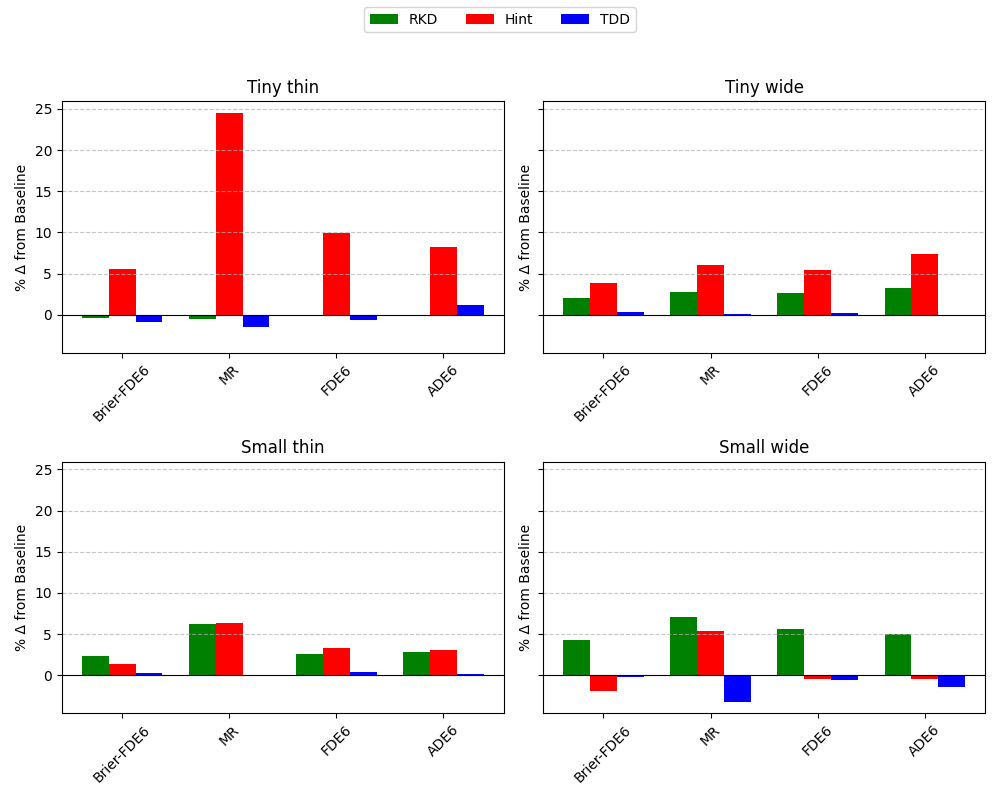
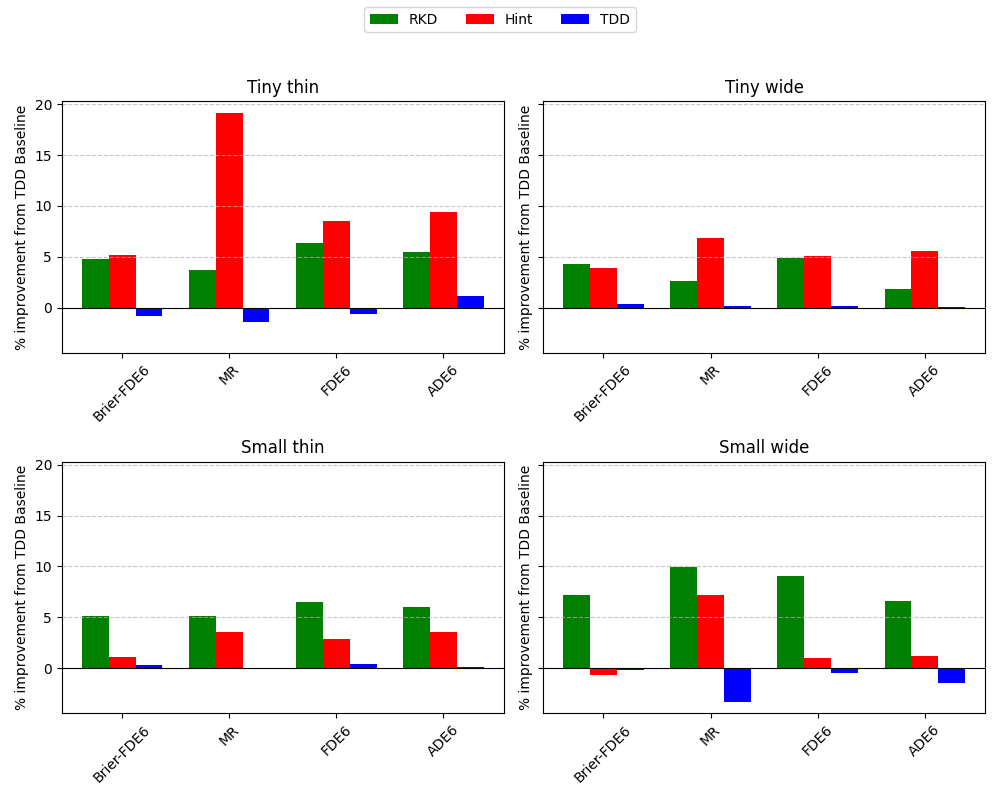
plots

diff --git a/grouped_barchart.py b/grouped_barchart.py
@@ -2,36 +2,44 @@ import pandas as pd
 import matplotlib.pyplot as plt
 import numpy as np
 
-# ==== USER CONFIG ====
-csv_path = "metrics.csv"  # Path to your CSV file
+
+csv_path = "metrics.csv"  # path to the CSV file with the model metrics
 metrics = ["val_brier-minFDE6", "val_MR", "val_minFDE6", "val_minADE6"]
 metric_labels = ["Brier-FDE6", "MR", "FDE6", "ADE6"]
 method_colors = {"RKD": "green", "Hint": "red", "TDD": "blue"}
 model_layout = ["Tiny thin", "Tiny wide", "Small thin", "Small wide"]
 
-# ==== LOAD DATA ====
 df = pd.read_csv(csv_path)
 df.columns = df.columns.str.strip()
 df["Baseline"] = df["Baseline"].astype(bool)
 
-# ==== CALCULATE PERCENT CHANGE ====
 rows = []
-for (model, method), group in df.groupby(["Model", "Method"]):
-    baseline = group[group["Baseline"]]
-    nonbaseline = group[~group["Baseline"]]
 
-    if baseline.empty or nonbaseline.empty:
-        continue
+for model in df["Model"].unique():
+    if model == "EMPD":
+        continue  # dont plot the EMPD model   
 
-    baseline_vals = baseline.iloc[0][metrics]
-    nonbaseline_vals = nonbaseline.iloc[0][metrics]
+    tdd_baseline = (
+        df[(df["Model"] == model) & (df["Method"] == "TDD") & (df["Baseline"])].groupby("Model").tail(1)
+    )
+    baseline_vals = tdd_baseline.iloc[0][metrics]
 
-    pct_change = ((baseline_vals - nonbaseline_vals) / nonbaseline_vals) * 100
-    rows.append({"Model": model, "Method": method, **pct_change.to_dict()})
+    # compare all nonbaseline methods for the same model
+    for method in df["Method"].unique():
+        if pd.isna(method):
+            continue  # none (nan) is reserved for EMPD - we skip this model in this plot
+        nonbaseline = df[
+            (df["Model"] == model)
+            & (df["Method"] == method)
+            & (~df["Baseline"])
+        ]
+        nonbaseline_vals = nonbaseline.iloc[0][metrics]
+        pct_change = ((nonbaseline_vals - baseline_vals) / baseline_vals) * 100 * -1
+        rows.append({"Model": model, "Method": method, **pct_change.to_dict()})
 
 df_pct = pd.DataFrame(rows)
 
-# ==== CREATE 2×2 SUBPLOTS ====
+# use a 2x2 grid for the grouped bar chart
 fig, axes = plt.subplots(2, 2, figsize=(10, 8), sharey=True)
 axes = axes.flatten()
 
@@ -47,7 +55,6 @@ for idx, model in enumerate(model_layout):
             values = [0] * len(metrics)
         else:
             values = method_row[metrics].values.flatten()
-
         ax.bar(x + i * bar_width, values, width=bar_width,
                color=method_colors[method], label=method if idx == 0 else None)
 
@@ -56,13 +63,10 @@ for idx, model in enumerate(model_layout):
     ax.set_xticklabels(metric_labels, rotation=45)
     ax.axhline(0, color='black', linewidth=0.8)
     ax.grid(axis='y', linestyle='--', alpha=0.7)
-    ax.set_ylabel("% Δ from Baseline")
+    ax.set_ylabel("% improvement from TDD Baseline")
 
-# Hide unused quadrants if fewer than 4 models
-for ax in axes[len(model_layout):]:
-    ax.axis("off")
 
-# Legend at top
+# plot legends on top
 handles, labels = axes[0].get_legend_handles_labels()
 fig.legend(handles, labels, loc='upper center', ncol=3)
 

diff --git a/flops_plot.py b/flops_plot.py
@@ -14,8 +14,10 @@ model_markers = {
     "Small wide": "o",   # circle
     "Small thin": "s",   # square
     "Tiny wide": "D",    # diamond
-    "Tiny thin": "^"     # triangle
+    "Tiny thin": "^",     # triangle
+    #"EMPD": "*",         # star
 }
+    
 
 
 df["Baseline"] = df["Baseline"].astype(bool)
@@ -34,11 +36,15 @@ for _, row in df_nonbase.iterrows():
     ax.scatter(row[x_col], row[y_col], s=100, color=color, marker=marker, edgecolor="black")
 
 # plot the baseline points (use TDD baseline)
-# df_base_last = df_base.groupby("Model").tail(1)
+df_base_last = df_base.groupby("Model").tail(1)
 
-for _, row in df_base.iterrows():  # iter through models and get TDD baseline
+for _, row in df_base_last.iterrows():  # iter through models and get TDD baseline
     model = row["Model"]
-    ax.scatter(row[x_col], row[y_col], s=100, color=method_colors[row["Method"]], marker=".", edgecolor="black", alpha=0.4)
+    if model != "EMPD":  # skip EMPD for now
+        ax.scatter(row[x_col], row[y_col], s=100, color="grey", marker=model_markers[model], edgecolor="black", alpha=0.7)
+    else:
+        # ax.scatter(row[x_col], row[y_col], s=100, color="yellow", marker=model_markers[model], edgecolor="black", alpha=0.7)
+        continue
  
 ax.set_xlabel("Inference FLOPs (G)")
 ax.set_ylabel(y_col)
@@ -51,8 +57,8 @@ method_handles = [
     for method, color in method_colors.items()
 ]
 
-baseline_handle = plt.Line2D([], [], marker='.', color='w', markerfacecolor="grey",
-                             markeredgecolor="black", markersize=10, label="Baseline", alpha=0.4)
+baseline_handle = plt.Line2D([], [], marker='o', color='w', markerfacecolor="grey",
+                             markeredgecolor="black", markersize=10, label="Baseline", alpha=0.7)
 
 model_handles = [
     plt.Line2D([], [], marker=marker, color='w', markerfacecolor="gray",

diff --git a/flop_calc.py b/flop_calc.py
@@ -6,7 +6,7 @@ from torch.utils.data import DataLoader
 from src.model.trainer_forecast import Trainer
 
 
-ckpt_path = "outputs/emp_tiny_thin-forecast_av2/baseline/checkpoints/last.ckpt"  # Kenta and Ole: change this to the model checkpoint
+ckpt_path = "checkpoints/empd.ckpt"  # Kenta and Ole: change this to the model checkpoint
 decoder_type = "detr"
 device = "cpu"  # set this to cuda if you guys have a GPU
 
